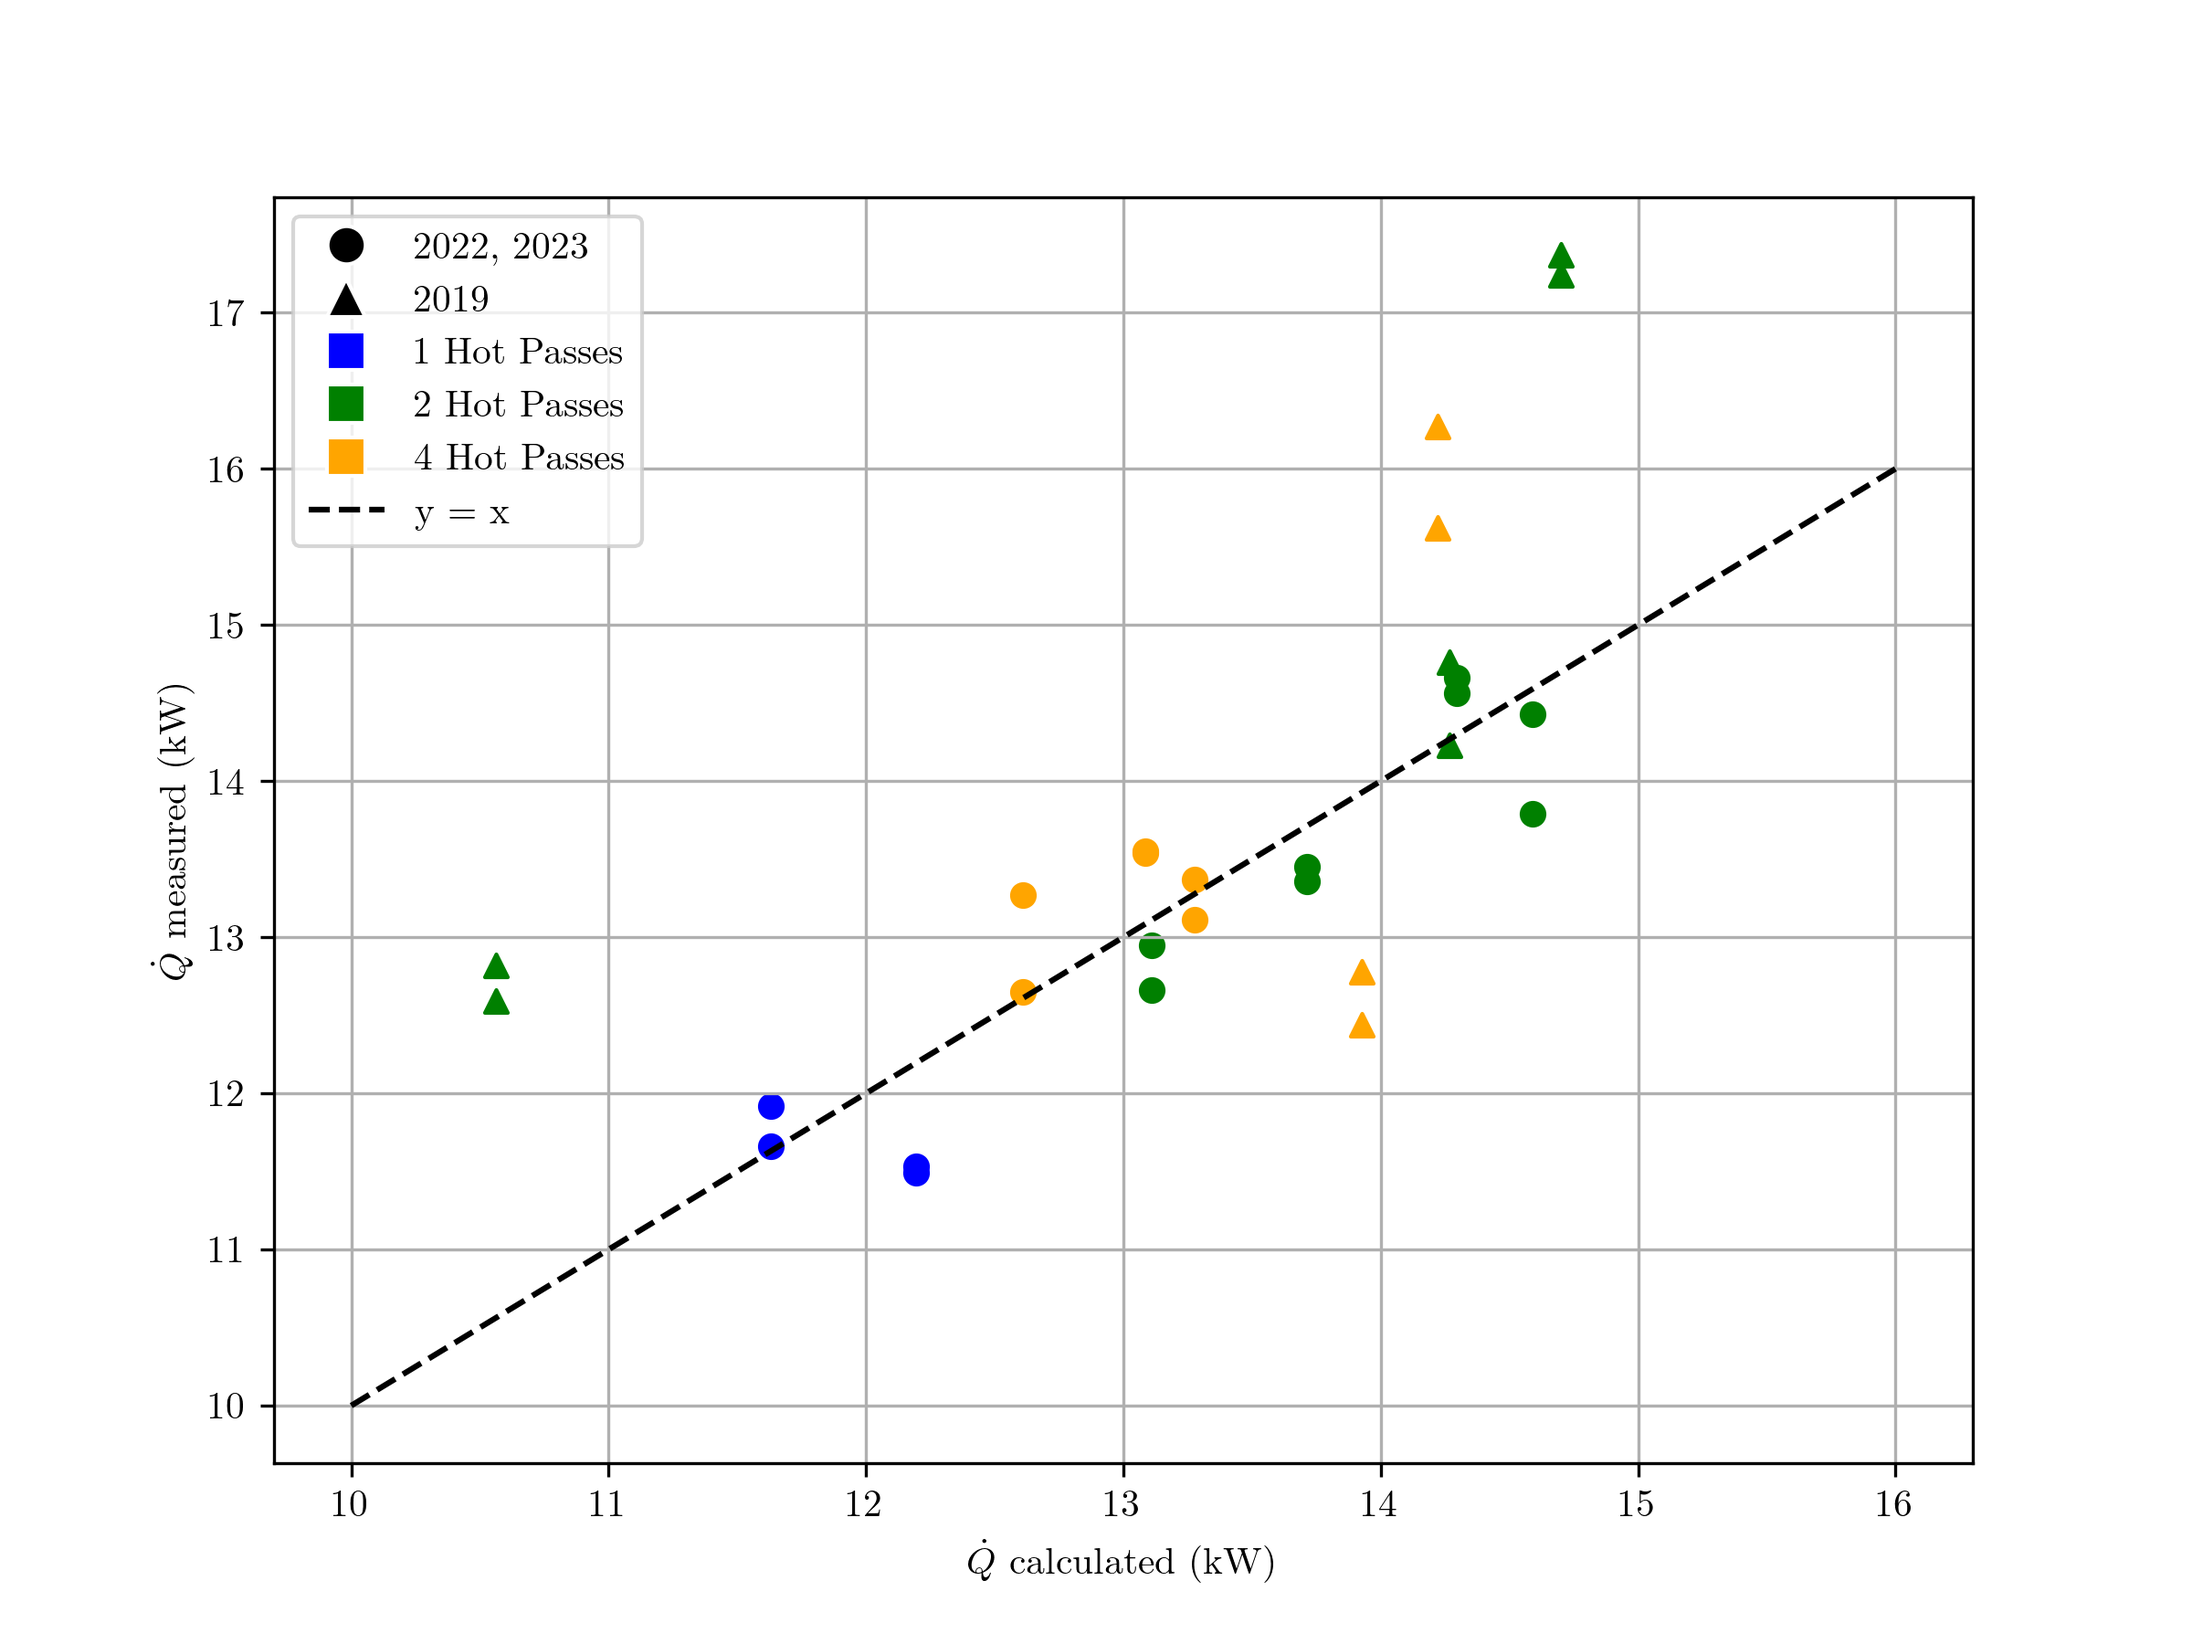
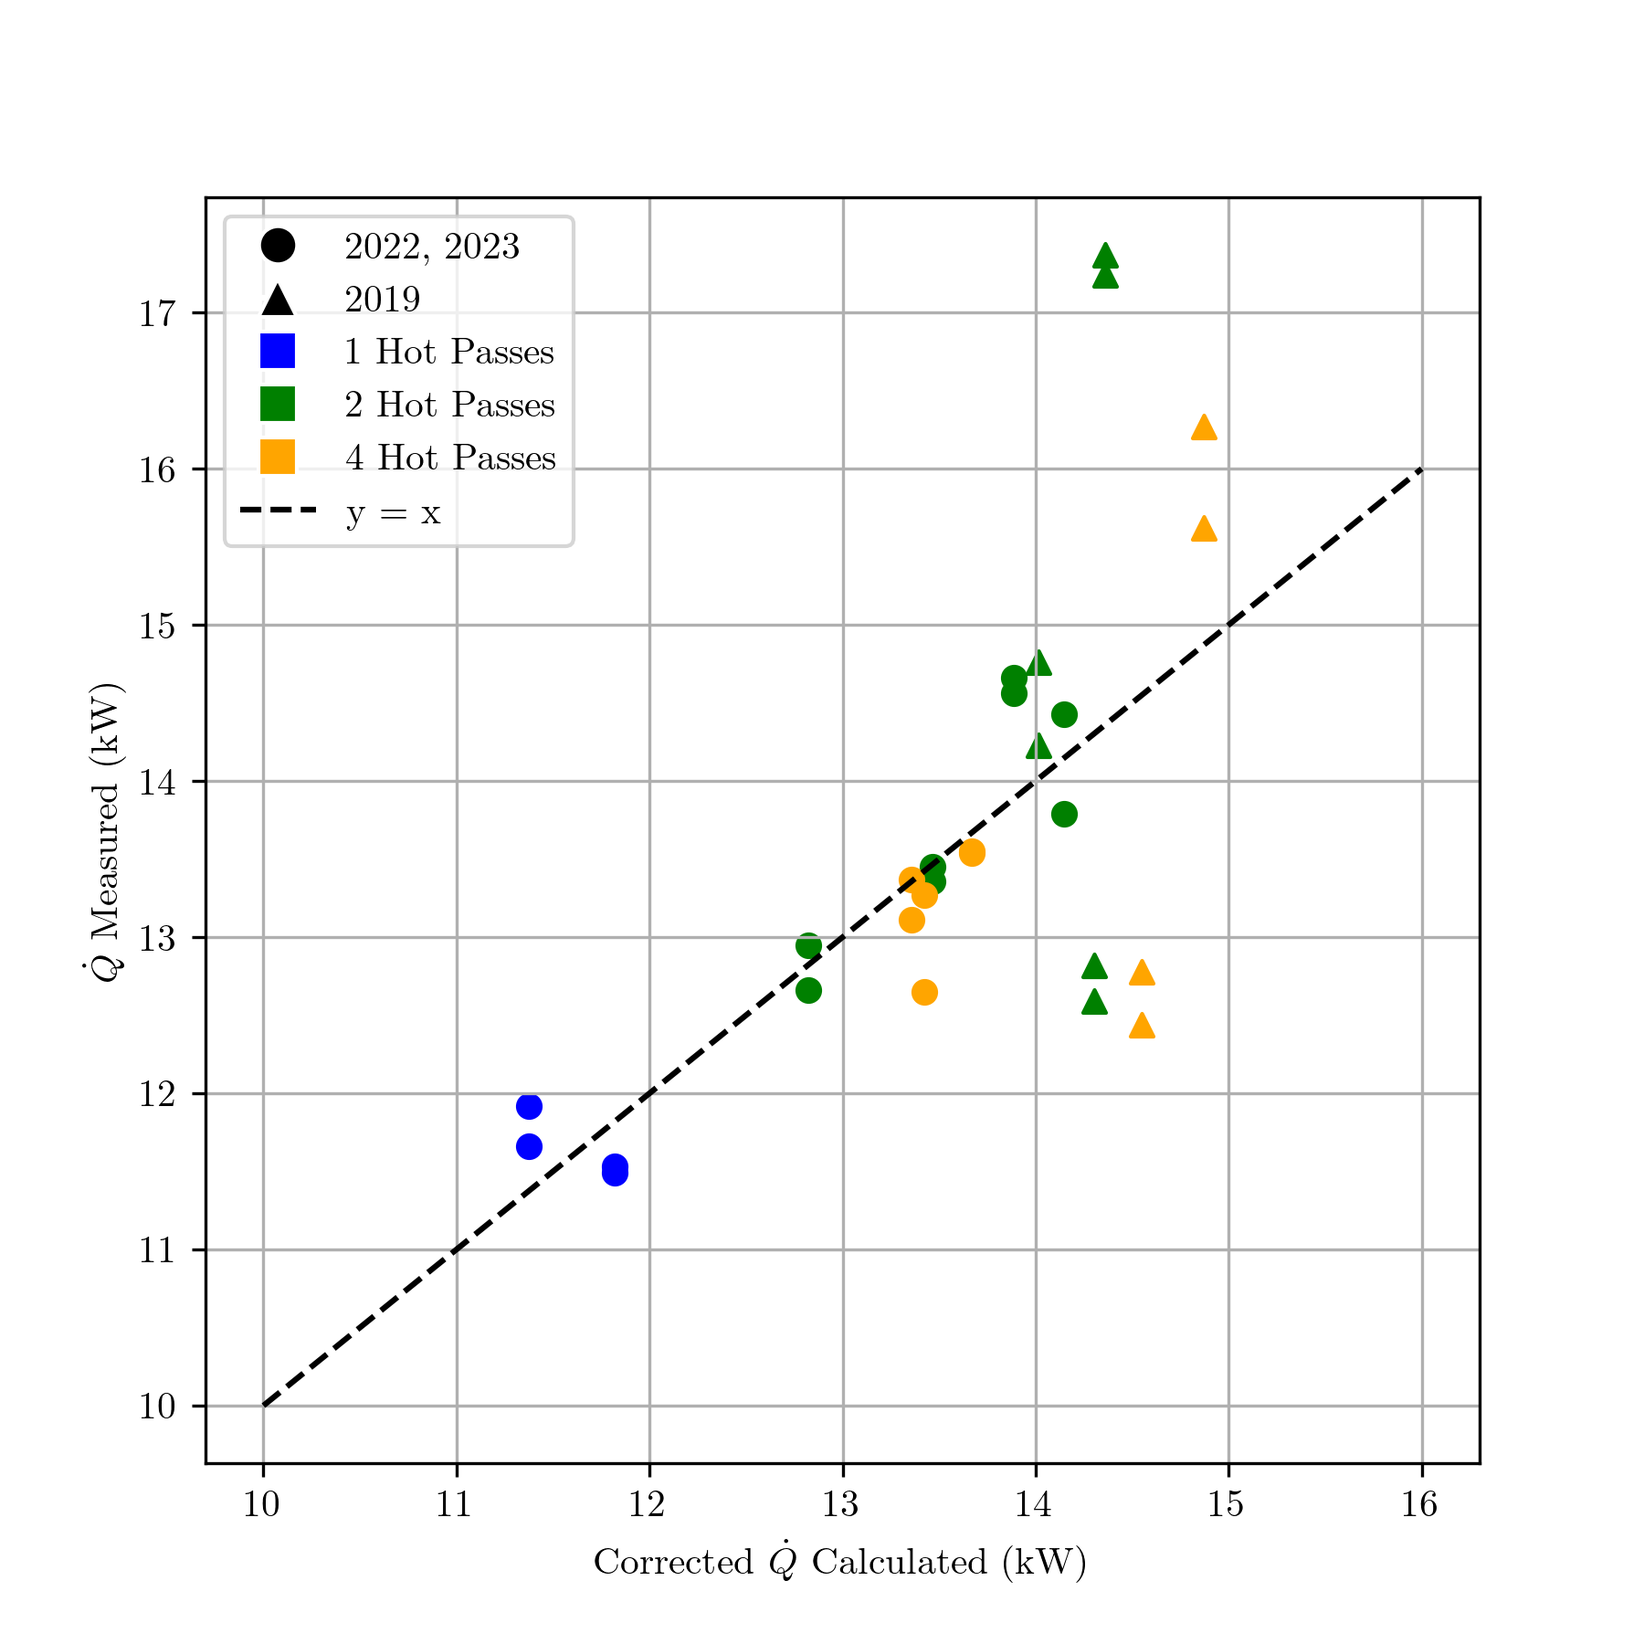
progress with GA3

diff --git a/IIA/shell_tube_heat_exchanger_reports/interim_report.tex b/IIA/shell_tube_heat_exchanger_reports/interim_report.tex
@@ -16,6 +16,8 @@
 \usepackage{listings}
 \usepackage{xcolor}
 \usepackage{color, colortbl}
+\usepackage{textgreek}
+\usepackage{mathrsfs}
 
 \usetikzlibrary{calc}
 \usetikzlibrary{angles,quotes} % for pic
@@ -112,33 +114,49 @@ This is iteratively solved to calculate the mass flow rate for a heat exchanger 
 
 The pressure drop in shell side flow is more complex than the tube side flow due to bundle pass and baffle configurations.
 Kerns method was used to calculate the pressure drop in each cold flow pass.
-This uses a more accurate effective diameter based on triangular or square pitch defined in the equation below.
+This uses an effective diameter based on triangular or square pitch defined in the equation below.
 
 \begin{equation}
-  d'_{\text{sh,sq}} = \frac{4(Y^2 - \pi d_o^2/4)}{\pi d_o / 2}
+  d'_{\text{sh,sq}} = \frac{4(Y^2 - \pi d_o^2/4)}{\pi d_o / 2}  \quad \text{and} \quad d'_{\text{sh,tri}} = \frac{4(\frac{Y^2 \sqrt{3}}{4} - \frac{\pi d_o^2}{8})}{\pi d_o / 2}
 \end{equation}
-\begin{equation}
-  d'_{\text{sh,tri}} = \frac{4(\frac{Y^2 \sqrt{3}}{4} - \frac{\pi d_o^2}{8})}{\pi d_o / 2}
-\end{equation}
+
 Then pressure drop is given by the equation below.
 \begin{equation}
   \Delta P = \text{some nasty equation}
 \end{equation}
-% Basically we used kerns method when we should have used bell-dell method
+% Basically we used kerns method when we should have used tinker method
 
 % Turbulent flow is obtained at lower Reynolds numbers on the shell side.
 
-\subsection{$\varepsilon$-NTU}
+\subsection{$\mathcal{E}$-NTU}
 % read up on this
 % Fscale for various arrangements
-The $\varepsilon$-NTU method is used to calculate the heat transfer rate for a wide range of heat exchanger configurations.
-Fundamentally, the effectiveness is a function of the number of transfer units NTU and the heat capacity rate ratio, $C^*$.
-
+The $\mathcal{E}$-NTU method is used to calculate the heat transfer rate for a wide range of heat exchanger configurations.
+The effectiveness can be found from a dimensionless number of "transfer units" denoted $NTU$ and a heat capacity rate ratio, $C^*$ or $R$.
+\begin{equation}
+  NTU = \frac{HA}{C_{\text{min}}} \quad \text{and} \quad C^* = \frac{C_{\text{min}}}{C_{\text{max}}} = \frac{(\dot{m}c_p)_{\text{min}}}{(\dot{m}c_p)_{\text{max}}}
+\end{equation}
+The $\mathcal{E}$-NTU method changes when the shell fluid is minimum or maximum heat capacity rate.
+A generalised method known as P-NTU defines a temperature effectiveness $P$ as a function of NTU and a ratio of heat capacity rates $R$ both defined below.
+\begin{equation}
+   R_1 = \frac{C_1}{C_2} \quad \quad P_1 = \frac{C_\text{min}}{C_1} \mathcal{E} = f(NTU, R_1)
+\end{equation}
+Extensive work has been done to find functions, $f$, for various heat exchanger configurations to calculate the effectiveness $\mathcal{E}$ \cite{HeatTransfer}.
+This is then used to obtain outlet temperatures and heat transfer rate $\dot{Q}$.
 
 
 \subsection{LMTD}
 % read up on this
 
+The Log Mean Temperature Difference (LMTD) method is based on the analytical solution for a single stage counterflow heat exchanger.
+For a general heat exchanger, a correction factor $F$ is applied which represents the deviation from counterflow log mean temperature difference.
+
+\begin{equation}
+  \dot{Q} = HAF \Delta T_{\text{lm}} \quad \text{where} \quad \Delta T_{\text{lm}} = \frac{\Delta T_1 - \Delta T_2}{\ln(\Delta T_1 / \Delta T_2)}
+\end{equation}
+For this counterflow definition of F, $\Delta T_1 = T_{\text{hot,in}} - T_{\text{cold,out}}$ and $\Delta T_2 = T_{\text{hot,out}} - T_{\text{cold,in}}$.
+Variations from this, including the coflow case or multiple passes, require the F factor to be calculated from the P-NTU temperature effectiveness, $P_1$, and heat capacity rate ratio $R_1$
+from well defined relations \cite{HeatTransfer}.
 
 
 \subsection{Comparison of Methods and Experimental Data}
@@ -158,11 +176,11 @@ Experimental data for previous designs was compared with our model to improve th
   \begin{subfigure}{.49\textwidth}
     \centering
     \includegraphics[width=.99\linewidth]{dp_ccalc_vs_meas.png}
-    \caption{Applied correction on previous and new 2019 designs.}
+    \caption{Applied correction on \ref{fig:uncorrected_pressure_drops} and unseen 2019 designs.}
     \label{fig:corrected_pressure_drops}
   \end{subfigure}
     
-  \caption{Pressure drop calculated from measured mass flow rate compared to measured pressure drop.}
+  \caption{Pressure drops calculated from measured mass flow rates compared to measured pressure drops.}
   \label{fig:pressure_drops}
 
 \end{figure}
@@ -173,23 +191,35 @@ which is expected from Kerns simple method.
 As shown, in the cold flow case, Kerns method significantly underestimates the pressure drop in the cold flow path, and in many cases, outside of the compressor characteristics.
 The corrected pressure drop.
 
-\subsubsection{$\varepsilon$-NTU and LMTD}
+\subsubsection{$\mathcal{E}$-NTU and LMTD}
 
 
 \begin{figure}[H]
   \centering
-  \includegraphics[width=0.8\textwidth]{Qdot_ccalc_vs_measured.png}
-  \caption{Calculated against measured heat transfer rate.}
+  \begin{subfigure}{.49\textwidth}
+    \centering
+    \includegraphics[width=0.99\textwidth]{Qdot_ucalc_vs_measured.png}
+    \caption{Correction line from 2022 and 2023 designs.}
+    \label{fig:uncorrected_Qdot}
+  \end{subfigure}
+  \begin{subfigure}{.49\textwidth}
+    \centering
+    \includegraphics[width=0.99\textwidth]{Qdot_ccalc_vs_measured.png}
+    \caption{Applied correction on \ref{fig:uncorrected_Qdot} and unseen 2019 designs.}
+    \label{fig:corrected_Qdot}
+  \end{subfigure}
+  \label{fig:Qdot}
+  \caption{Heat transfer rate calculated from measured mass flow rate compared to measured heat transfer rate.}
 \end{figure}
 
 \begin{figure}[H]
   \centering
   \includegraphics[width=0.6\textwidth]{entu_lmtd_speed.png}
-  \caption{Calculation time for $\varepsilon$-NTU and LMTD methods for various heat exchanger configurations.}
+  \caption{Calculation time for $\mathcal{E}$-NTU and LMTD methods for various heat exchanger configurations.}
   \label{fig:entu_lmtd_speed}
 \end{figure}
 
-From figure \ref{fig:entu_lmtd_speed} we can see that the $\varepsilon$-NTU method is typically twice as fast as the LMTD method.
+From figure \ref{fig:entu_lmtd_speed} we can see that the $\mathcal{E}$-NTU method is $2$ to $2.5$ times faster than the LMTD method.
 This is important for the optimization algorithm as the objective function is calculated thousands of times during the process.
 
 
@@ -246,18 +276,13 @@ The simplest design has 1 hot stage and 1 cold stage, and so the search space is
 
 \subsection{Algorithms}
 Three optimization algorithms were tested: Brute force, Sequential Least Squares Programming, and Simplicial Homology Global Optimization.
-An unconstrained Nelder-Mead algorithm was also tested which had a cost value of infinity when constraints were violated but this did not reliably converge.
 In an early version of the program, the brute force algorithm was both fast and robust at finding the global optimal design.
 However, the introduction of a variable number of tubes and baffles in each stage increased the complexity $O(n^{p+q+1})$.
+SLSP was performed for a large number of uniformly distributed random initial values in attempt to find the global optimum.
+However, this method required a large number of sample points to find the global optimum and was not robust for the high dimensional search space.
 
-SLSP was used with random initial guesses to find the global optimum.
-
-
-\subsection{Post Optimality Analysis}
-% uncertainty quantification?
-
-In reality there is a large uncertainty in the calculated values due to assumptions and empirical relations.
-
+The Simplicial Homology Global Optimization algorithm was chosen for its robustness and ability to find optima in all cases.
+SHGO is a derivative-free global optimization algorithm that efficiently subdivides the search space into smaller regions (simplicial complexes) to find the global optimum \cite{SHGO}.
 
 \section{Software}
 
@@ -271,10 +296,9 @@ After an optimal solution is found, the design is loaded into the GUI for manual
 
 \subsection{Design}
 The software features object oriented design with classes for the heat exchanger and fluid path components.
-The structure is designed to be easily extendable with new components and optimization thread workers.
+The structure is designed to easily modify fluid properties and introduce new flow components.
 Seperate optimization threads are used to prevent the GUI from freezing during long calculations.
-
-The graphical user interface is designed to be intuitive and user friendly. A log dispays optimization progress, warning and error messages. There is also a diagram of the heat exchanger which helps
+A log dispays optimization progress, warning and error messages. There is also a diagram of the heat exchanger which helps
 the user visualise the flow path of multi-stage designs.
 
 \begin{figure}[H]
@@ -316,10 +340,13 @@ From table \ref{table:designs} we can see that the optimal design has 1 cold sta
 However, this design with a different number of tubes in each section is much harder to manufacture than a circularly symmetric design.
 Manual inspection of the design 
 
+\section{Future Work}
+
+
 \section{Conclusion}
 
 
-\newpage
+
 \section{Appendix}
 
 \begin {lstlisting}[language=Python]
@@ -328,32 +355,22 @@ Manual inspection of the design
 
 
 % bibliography
-\newpage
+
 \begin{thebibliography}{9}
 
-\bibitem{handout}
-  G. Vinnicombe,
-  \emph{Inverted Pendulum Lab Handout}.
-  University of Cambridge,
-  2022.
+  \bibitem{HeatTransfer}
+    Holman J. P.
+    \emph{Heat Transfer. 10th ed.}
+    McGraw-Hill,
+    2010.
 
-\bibitem{feedback_control_of_dynamic_systems}
-  G. F. Franklin, J. D. Powell, A. Emami-Naeini,
-  \emph{Feedback Control of Dynamic Systems}.
-  Pearson,
-  2015.
+%Endres, SC, Sandrock, C, Focke, WW (2018) “A simplicial homology algorithm for lipschitz optimisation”, Journal of Global Optimization.
 
-\bibitem{non_linear_systems}
-  H. K. Khalil,
-  \emph{Nonlinear Systems}.
-  Pearson,
-  2002.
-
-\bibitem{modern_control_systems}
-  R. C. Dorf, R. H. Bishop,
-  \emph{Modern Control Systems}.
-  Pearson,
-  2016.
+  \bibitem{SHGO}
+  Endres, SC, Sandrock, C, Focke, WW,
+  \emph{A simplicial homology algorithm for lipschitz optimisation},
+  Journal of Global Optimization,
+  2018.
 
 \end{thebibliography}
 
